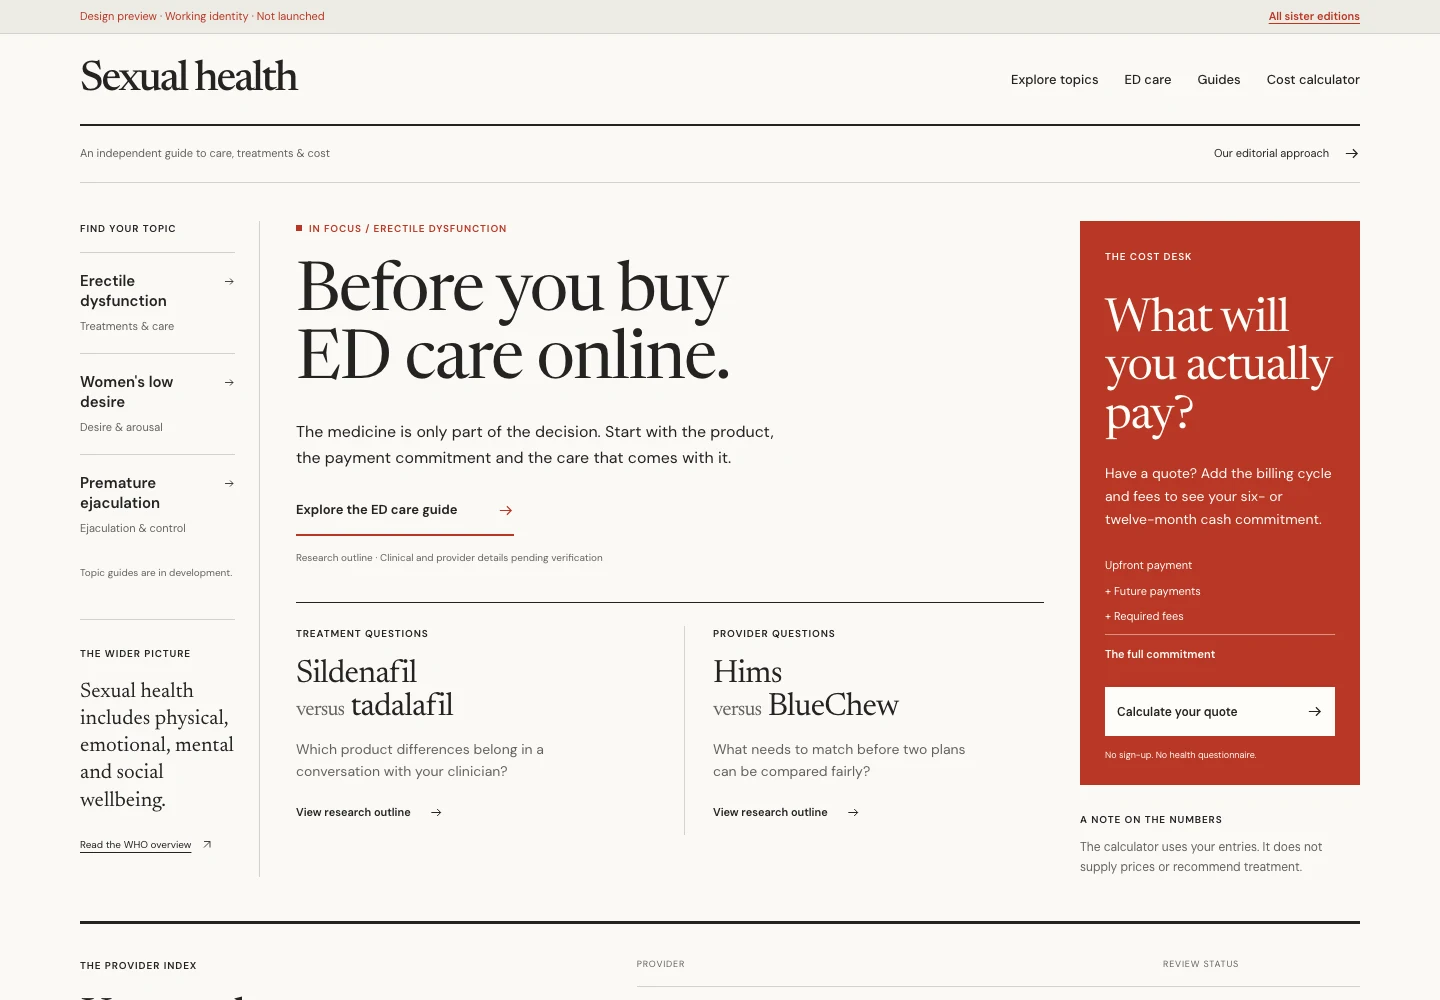
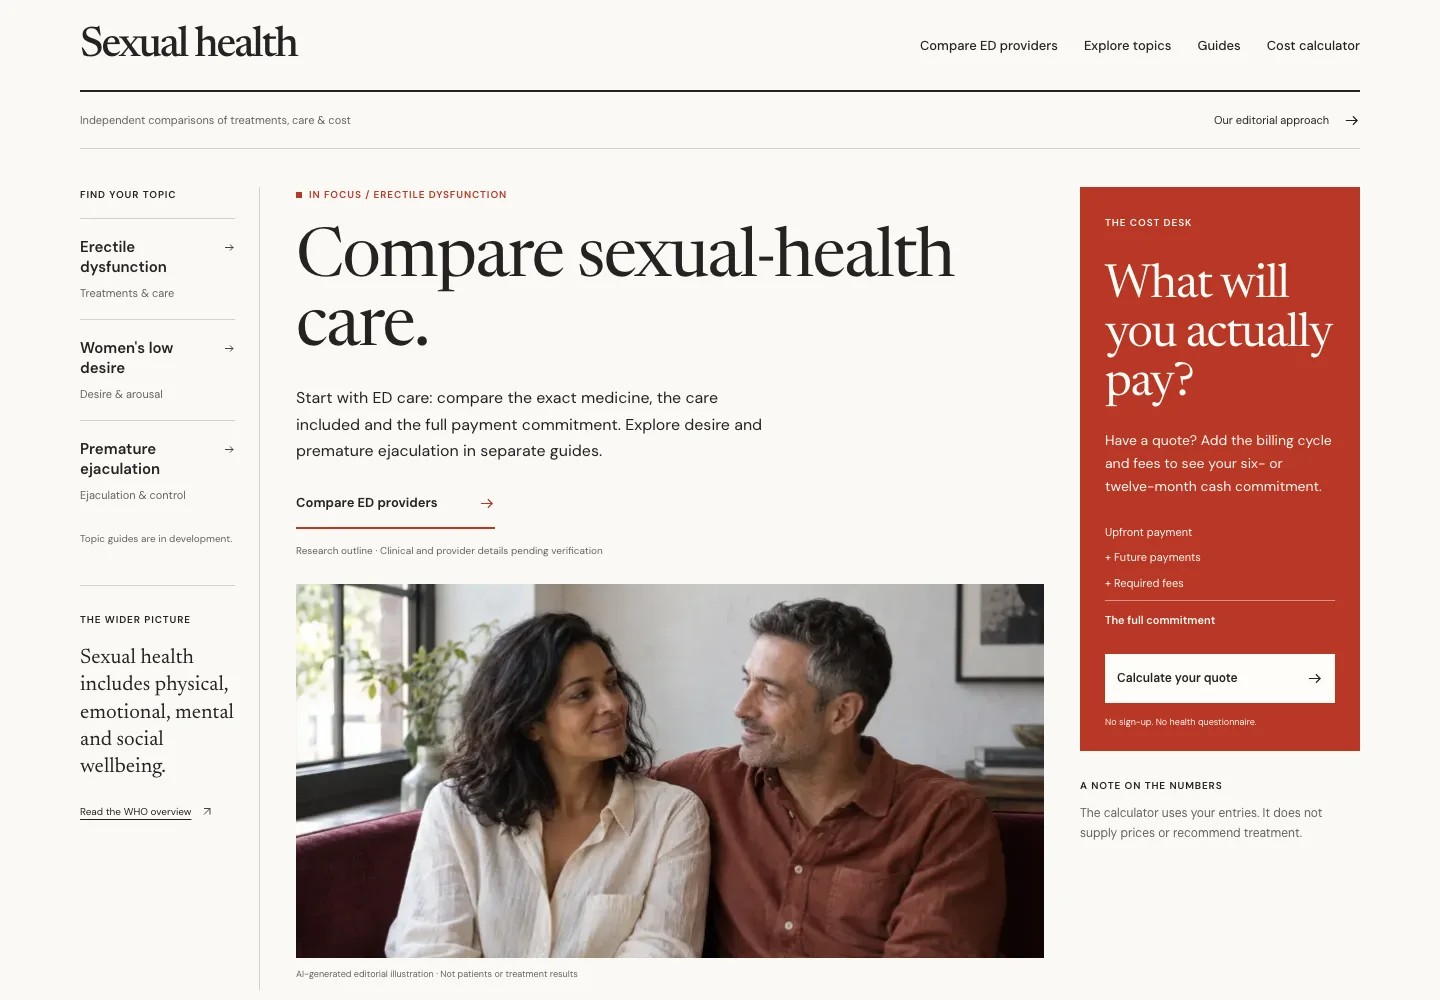
Refresh health comparison thumbnails from deployed previews

diff --git a/components/thumbnails/HealthScaffoldThumb.tsx b/components/thumbnails/HealthScaffoldThumb.tsx
@@ -5,7 +5,7 @@ import { comparisonScaffolds } from "@/lib/portfolio-development";
 export function HealthScaffoldThumb({ edition }: { edition: "hair" | "desire" }) {
   const project = comparisonScaffolds.find(item => item.slug === (edition === "hair" ? "hair-index" : "desire-index"))!;
   return <figure>
-    <Image src={`/images/health-previews/${edition}.webp`} width={1440} height={1000} sizes="(max-width: 640px) 90vw, 384px" alt={`${project.name} homepage preview with ${edition === "hair" ? "deep-green typography, equal women’s and men’s care paths and a filterable provider index" : "editorial typography, a sexual-health topic index and a care-cost tool"}`} className="h-auto w-full rounded-lg border border-border" />
+    <Image src={`/images/health-previews/${edition}.webp`} width={1440} height={1000} sizes="(max-width: 640px) 90vw, 384px" alt={`${project.name} homepage preview with ${edition === "hair" ? "original women’s and men’s portraits, direct comparison paths and a provider shortlist" : "editorial photography, broad sexual-health topics and ED provider comparisons"}`} className="h-auto w-full rounded-lg border border-border" />
     <figcaption className="mt-2 text-[11px] leading-relaxed text-muted">Homepage preview. Final name undecided.</figcaption>
   </figure>;
 }
